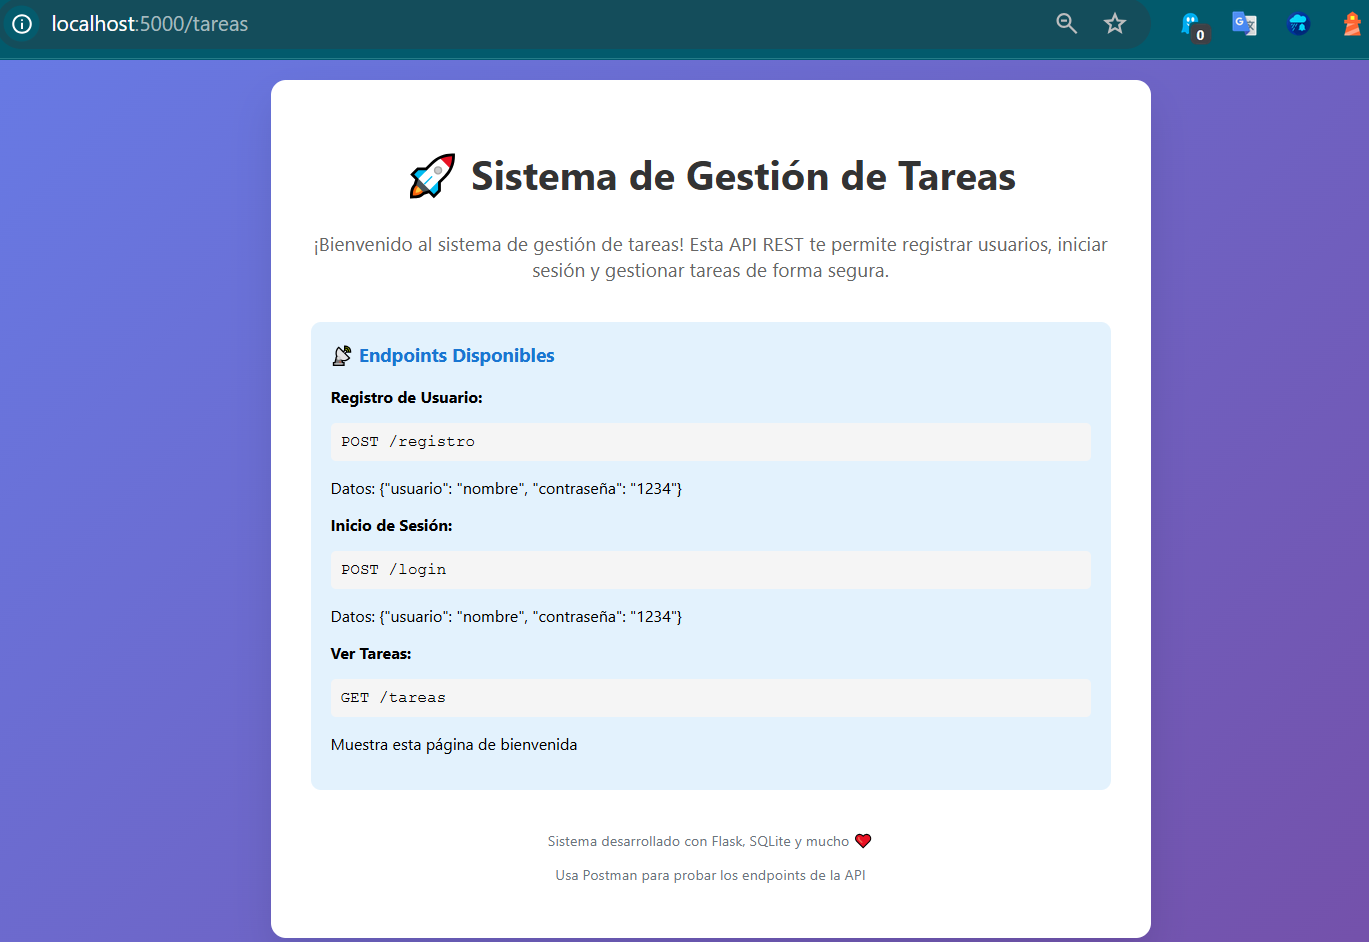
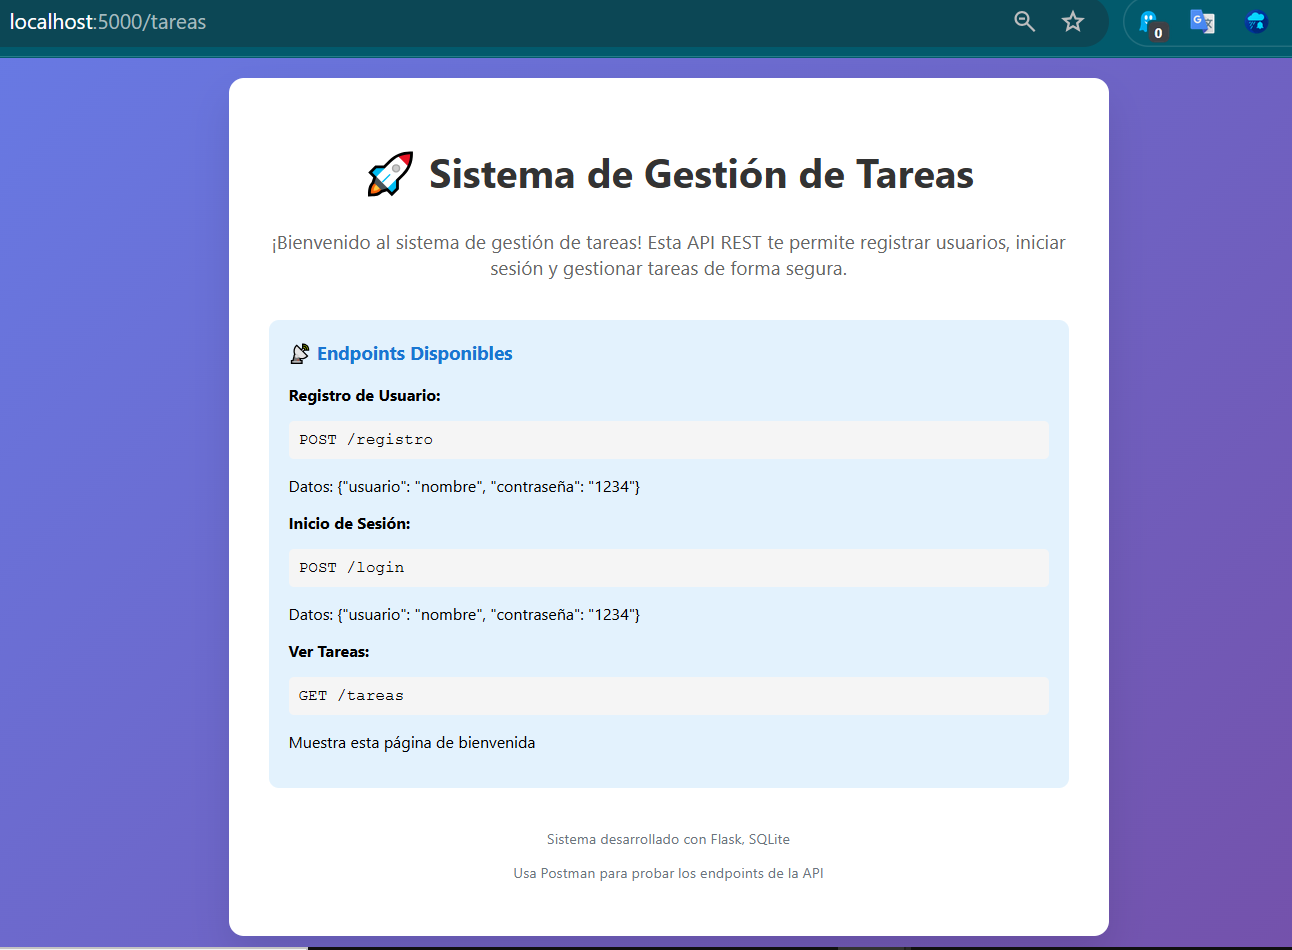
Cambios en README, html y screenshots

diff --git a/templates/bienvenida.html b/templates/bienvenida.html
@@ -165,7 +165,7 @@
         </div>
         
         <div class="footer">
-            <p>Sistema desarrollado con Flask, SQLite y mucho ❤</p>
+            <p>Sistema desarrollado con Flask, SQLite</p>
             <p>Usa Postman para probar los endpoints de la API</p>
         </div>
     </div>

diff --git a/README.md b/README.md
@@ -1,6 +1,6 @@
 # 🚀 Sistema de Gestión de Tareas - API REST
 
-Un sistema completo de gestión de tareas con API REST, autenticación segura y base de datos SQLite.
+Un sistema de gestión de tareas con API REST, autenticación segura y base de datos SQLite.
 
 ## 📋 Características
 
@@ -279,7 +279,7 @@ app.run(debug=True, host='0.0.0.0', port=5001)
 
 ## 👨💻 Autor
 
-Práctica Formativa Obligatoria 2 (PFO2) desarrollada por Christian javier Lemos para la materia Programación sobre redes.
+Práctica Formativa Obligatoria 2 (PFO2) desarrollada por Christian Javier Lemos para la materia Programación sobre redes.
 
 ---
 
